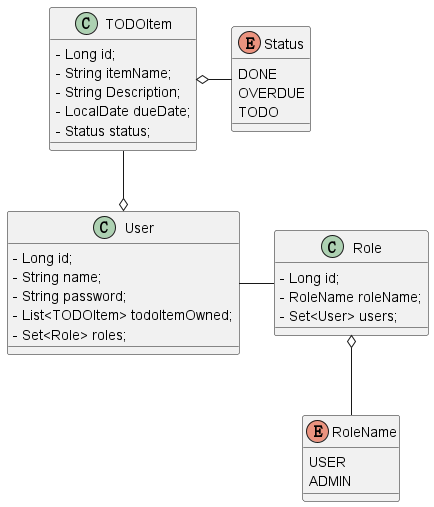
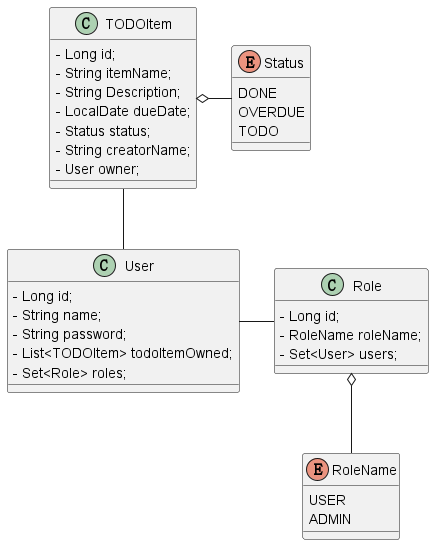
Update

diff --git a/src/main/resources/templates/error.html b/src/main/resources/templates/error.html
@@ -1,0 +1,9 @@
+<!DOCTYPE html>
+<html>
+<head>
+    <title>Error Page</title>
+</head>
+<body>
+<p>This is an example of a simple HTML page with one paragraph.</p>
+</body>
+</html>

diff --git a/src/main/resources/templates/forms/register.htm b/src/main/resources/templates/forms/register.htm
@@ -1,0 +1,9 @@
+<!DOCTYPE html>
+<html>
+<head>
+    <title>Register</title>
+</head>
+<body>
+<p>This is an example of a simple HTML page with one paragraph.</p>
+</body>
+</html>

diff --git a/src/main/resources/templates/views/success.htm b/src/main/resources/templates/views/success.htm
@@ -1,0 +1,9 @@
+<!DOCTYPE html>
+<html>
+<head>
+    <title>Success</title>
+</head>
+<body>
+<p>This is an example of a simple HTML page with one paragraph.</p>
+</body>
+</html>

diff --git a/src/main/resources/templates/forms/login.htm b/src/main/resources/templates/forms/login.htm
@@ -1,0 +1,9 @@
+<!DOCTYPE html>
+<html>
+<head>
+    <title>Login</title>
+</head>
+<body>
+<p>This is an example of a simple HTML page with one paragraph.</p>
+</body>
+</html>

diff --git a/src/main/resources/templates/views/users.htm b/src/main/resources/templates/views/users.htm
@@ -1,0 +1,9 @@
+<!DOCTYPE html>
+<html>
+<head>
+    <title>Users</title>
+</head>
+<body>
+<p>This is an example of a simple HTML page with one paragraph.</p>
+</body>
+</html>

diff --git a/src/main/java/com/example/simpletodosmanager/configuration/WebMvcConfig.java b/src/main/java/com/example/simpletodosmanager/configuration/WebMvcConfig.java
@@ -12,7 +12,7 @@ import org.springframework.web.servlet.config.annotation.WebMvcConfigurer;
 /**
  * @Author Anthony HE, anthony.zj.he@outlook.com
  * @Date 1/2/2023
- * @Description:
+ * @Description: Defines callback methods to customize the Java-based configuration for Spring MVC
  */
 
 @Configuration

diff --git a/README.md b/README.md
@@ -33,7 +33,10 @@ based on Spring Framework.
    The server will start on port 5000.
 
 ## Features
-TODOs CRUD: Each to-do item has its ID, 
+1. Each to-do item has its own ID (as primary key), name, description, due date, status (Completed, Overdue, or In progress), as well as creator name and owner (who is assigned to finish this to-do item).
+2. To-do item sorting and filtering. 
+3. Passcode Encoder based on Spring Security. 
+4. To-do task assignment for team cooperation. 
 
 ## Class Diagram
 
@@ -42,11 +45,11 @@ TODOs CRUD: Each to-do item has its ID,
 
 ## Room for improvement
 
-1. Lack Authentication features. 
-2. DevOps
-3. To-do item assignment to refine. 
-4. Front-end sites. 
-5. Tests
+1. Need more Authentication features, apart from PasswordEncoder.
+2. To-do item assignment yet to refine. 
+3. Front-end sites. 
+4. Tests on this rest api. 
+
 ## License
 
 This project is licensed under the MIT License - see the [LICENSE](LICENSE) file for details
